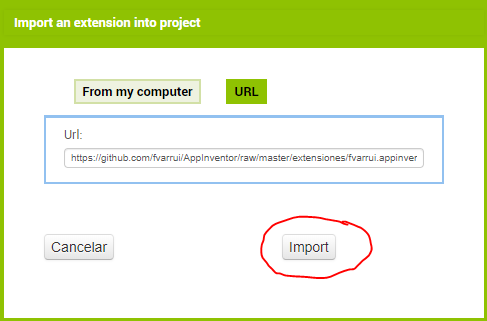
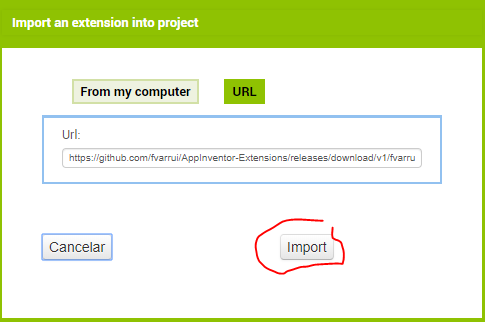
U añadir un retardo

diff --git a/tutoriales/anadir-un-retardo.md b/tutoriales/anadir-un-retardo.md
@@ -2,8 +2,8 @@
 
 Para poder añadir un retardo o tiempo de espera durante la ejecución, debemos [importar](importar-una-extension) en nuestro proyecto la siguiente extensión:
 
-```
-https://github.com/fvarrui/AppInventor/raw/master/extensiones/fvarrui.appinventor.components.aix
+```bash
+https://github.com/fvarrui/AppInventor-Extensions/releases/download/v1/fvarrui.appinventor.components.aix
 ```
 
 ![](images/anadir-un-retardo-01.png)
@@ -19,3 +19,15 @@ Este componente no tiene propiedades, sólo un método que debemos usar desde el
 ![](images/anadir-un-retardo-03.png)
 
 >  El bloque anterior añade un retardo de 5000 ms (5 segundos).
+
+## Ejemplo
+
+En el siguiente ejemplo se añade un retardo de 5 segundos al pulsar el `Botón1`. Cuando transcurren los 5 segundos, se dispara el evento `Awake` que en este caso muestra una notificación al usuario.
+
+![](images/anadir-un-retardo-05.png)
+
+> Los bloques que pongamos debajo de `llamar Sleepyhead1.Sleep` también se ejecutarán después de que transcurra el tiempo indicado, luego, el bloque `Awake` es opcional.
+
+El siguiente ejemplo funciona igual que el anterior:
+
+![](images/anadir-un-retardo-06.png)
